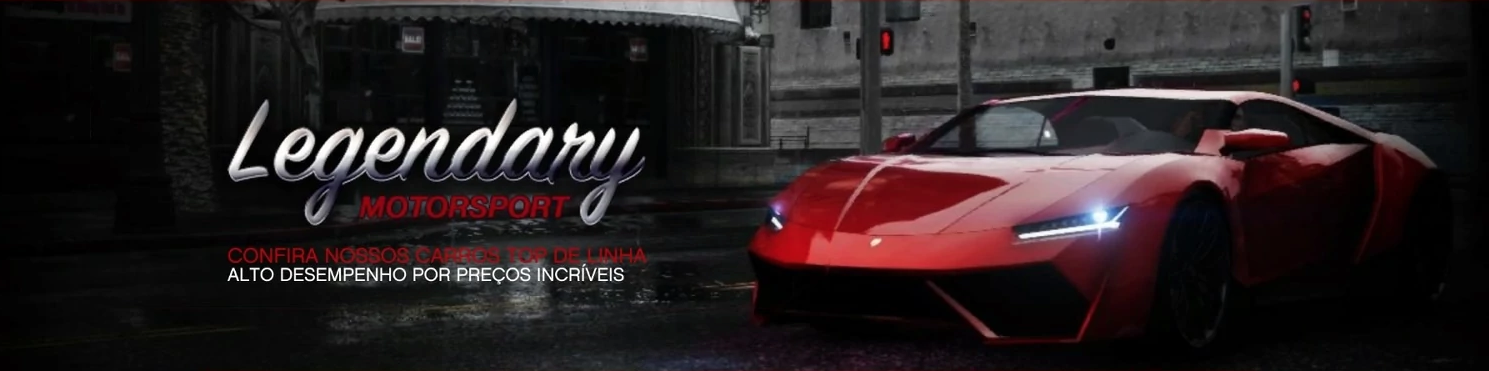
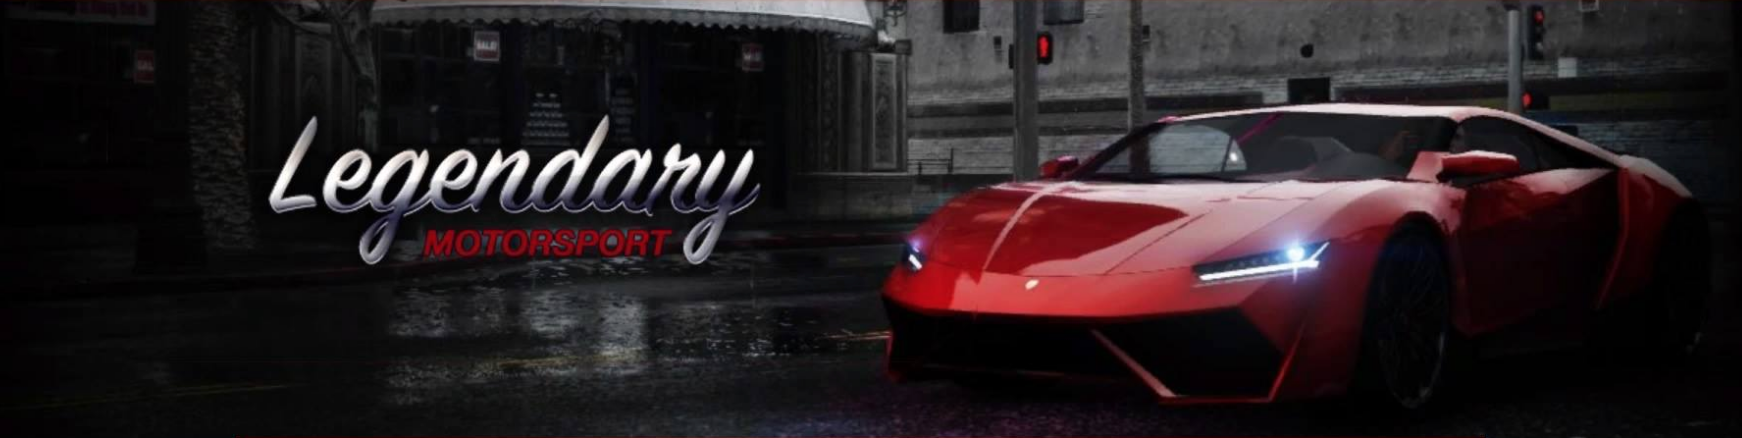
styles: add footer

diff --git a/src/app/app.component.scss b/src/app/app.component.scss
@@ -6,7 +6,7 @@
   background-color: $background-box-color;
   right: 0;
   left: 0;
-  margin-top: 280px;
+  margin-top: 330px;
   margin-right: auto;
   margin-left: auto;
   min-height: 1100px;
@@ -27,7 +27,7 @@
 .top-img {
   display: block;
   margin: 0 auto;
-  height: 100%;
+  height: 330px;
 }
 .main-title {
   position: relative;
@@ -108,9 +108,15 @@
   z-index: 3;
   position: absolute;
   width: 100%;
-  height: 280px;
+  height: 140px;
+  padding: 40px;
   background-color: black;
   border-top-width: 4px;
   border-top-style: solid;
   border-top-color: $border-default-color;
+}
+
+.footer-img {
+  display: block;
+  margin: 0 auto;
 }

diff --git a/src/app/app.component.html b/src/app/app.component.html
@@ -19,9 +19,8 @@
 			<gtav-stock-list [list]="autoList"></gtav-stock-list>
 		</div> 
 	</div> 
-	<div class="main-footer">
-			dsdsds
-				<img src="" />
+		<div class="main-footer">
+			<img src="./assets/footer.png" class="footer-img" />
 		</div> 
 </div>
  
